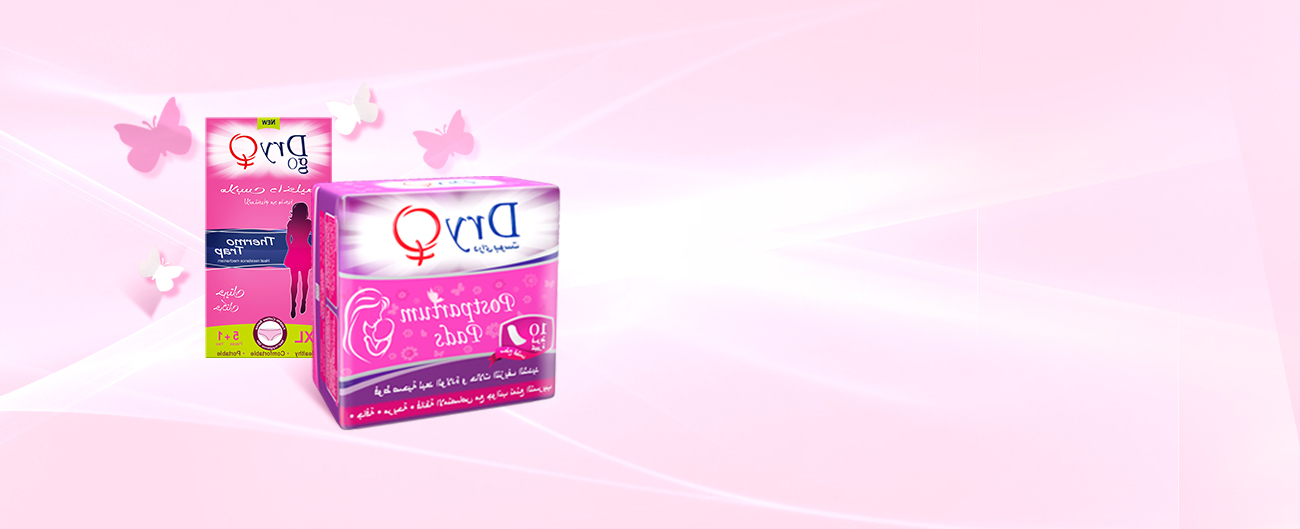
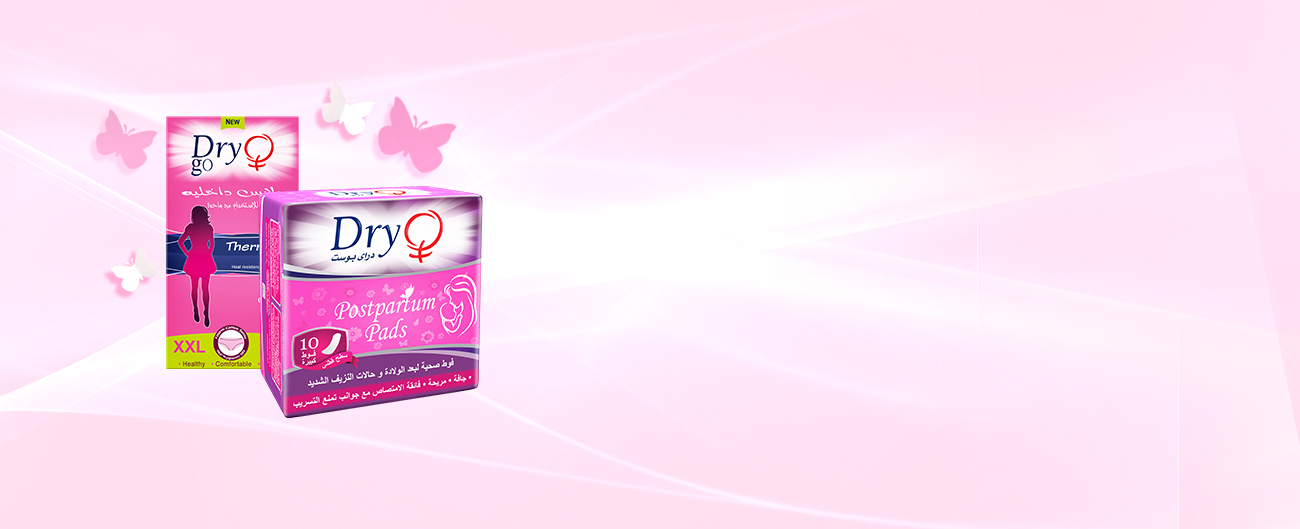
design changes

Changed region(s): [[0.0615, 0.1815, 0.4308, 0.8166]]

diff --git a/theme/css/ar/style.css b/theme/css/ar/style.css
@@ -15,6 +15,8 @@ font-family: 'Noto Kufi Arabic', sans-serif;
   font-weight: lighter !important;
   padding-top:80px;
   direction:rtl;
+  width:100%;
+  overflow-x:hidden;
 }
 .btn{
 -webkit-transition: all .3s ease-in-out;
@@ -210,6 +212,9 @@ h2.lined-heading span{
 	color:#6a52b4;
 	text-transform:uppercase;
 }
+.features-group{
+direction:ltr;
+}
 .features-group li{
 	padding:15px 0;
 	margin-top:50px;
@@ -222,7 +227,7 @@ h2.lined-heading span{
 .features-group li .pink-btn{
 	margin-top:0;
 	background:#f34a98;
-	height:53px;
+	height:55px;
 	font-weight:lighter;
 	font-size:2em;
 	position: absolute;
@@ -374,7 +379,7 @@ transition: all 0.3s ease-in-out;
 	color:#FFF !important;
 	font-weight:bold;
 	border-radius:4px;
-	padding:5px !important;
+	padding:0 5px !important;
 	margin-left:20px;
 	line-height:24px;
 	}
@@ -571,7 +576,7 @@ nav .dropdown-menu{
 .testimonial .item h3{
 	font-size: 14px;
     font-weight: normal;
-    margin-top: 0;
+    margin-top: 10px;
 }
 						/*-------------------- carousel fade ------------------------- */
 .carousel-fade .carousel-inner .item {
@@ -1477,7 +1482,14 @@ ul.products-page li{
   transition-property: box-shadow;
   width:19%;
 	}
-	
+	ul.products-page li .dropsimg{
+			
+			-moz-transform:rotateY(180deg);
+-webkit-transform:rotateY(180deg);
+-o-transform: rotateY(180deg);
+-ms-transform:rotateY(180deg);
+transform: rotateY(180deg);
+	}	
 ul.products-page{
 	margin-bottom:20px;}
 ul.products-page li .dry-btn{
@@ -1485,7 +1497,8 @@ border-radius: 0;
     display: block;
     width: 100%;
     text-transform: uppercase;
-    padding: 14px 25px;
+    padding: 8px 25px;
+	    height: 40px !important;
 	}
 ul.products-page li .dry-btn img{
 	padding:0;
@@ -1799,6 +1812,8 @@ p.search-result{
 	}
 .gray-color{
 	background-color:#f6f6f6;
+	width: 100%;
+    overflow: hidden;
 	}
 .margin-top20{
 	margin-top:20px;
@@ -1898,6 +1913,9 @@ transition: all .3s ease-in-out;
 }
 .navbar-fixed-top.on{
 	top:0;
+}
+.overall{
+direction:ltr;	
 }
 
 @media (max-width: 768px) {
@@ -2168,7 +2186,7 @@ display:none !important;
 	padding:0 50px 0 0 ;
 }
 .circle{
-direction:rtl;	
+direction:ltr;	
 }
 .circle canvas{
 font-weight:normal !important;	
@@ -2541,4 +2559,14 @@ direction:rtl;
 
 .intl-tel-input .selected-flag .iti-flag {
     right: 18px;
+}
+
+#order-city,#order-country{
+text-indent:42%;	
+}
+#order-ttl{
+	    text-indent: 30%;
+}
+.intl-tel-input .flag-container:hover .selected-flag {
+    background-color: transparent !important;
 }

diff --git a/theme/css/en/style.css b/theme/css/en/style.css
@@ -14,6 +14,8 @@ body{
   color:#464646 !important;
   font-weight: lighter !important;
   padding-top:80px;
+    width:100%;
+  overflow-x:hidden;
 }
 .btn{
 -webkit-transition: all .3s ease-in-out;
@@ -609,7 +611,7 @@ font-size: 16px;
 .testimonial .item h3{
 font-size: 14px;
     font-weight: normal;
-    margin-top: 0;
+    margin-top: 5px;
 }
 						/*-------------------- carousel fade ------------------------- */
 .carousel-fade .carousel-inner .item {
@@ -782,6 +784,11 @@ select {
 .online-method .left{
 	    width: 40%;
     text-align: center;
+}
+.online-method .left h2{
+font-family: 'Source Sans Pro', sans-serif;
+text-transform: uppercase;
+    font-weight: lighter;
 }
 .online-method .dry-btn{
 font-size: 24px;
@@ -1530,7 +1537,7 @@ ul.products-page li{
   transition-property: box-shadow;
   width:19%;
 	}
-	
+
 ul.products-page{
 	margin-bottom:20px;}
 ul.products-page li .dry-btn{
@@ -1858,6 +1865,8 @@ p.search-result{
 	}
 .gray-color{
 	background-color:#f6f6f6;
+	width:100%;
+	overflow:hidden;
 	}
 .margin-top20{
 	margin-top:20px;
@@ -2593,4 +2602,14 @@ height:auto;
 .find-bg .form-group {
     margin-bottom: 0;
 }
+}
+
+#order-city,#order-country{
+text-indent:42%;	
+}
+#order-ttl{
+	    text-indent: 30%;
+}
+.intl-tel-input .flag-container:hover .selected-flag {
+    background-color: transparent !important;
 }

diff --git a/app/views/products/_item.php b/app/views/products/_item.php
@@ -17,7 +17,7 @@
     <div class="product-name"><?= $item->title ?></div>
     <?php if($item->no_of_drops == ''){$no=1;}else{$no=$item->no_of_drops ;}?>
 
-     <img class="center-block img-responsive" src="<?php echo Yii::$app->getUrlManager()->getBaseUrl()."/theme/images/drops/".$no.".png" ;?>">
+     <img class="center-block img-responsive dropsimg" src="<?php echo Yii::$app->getUrlManager()->getBaseUrl()."/theme/images/drops/".$no.".png" ;?>">
 
 
 	
